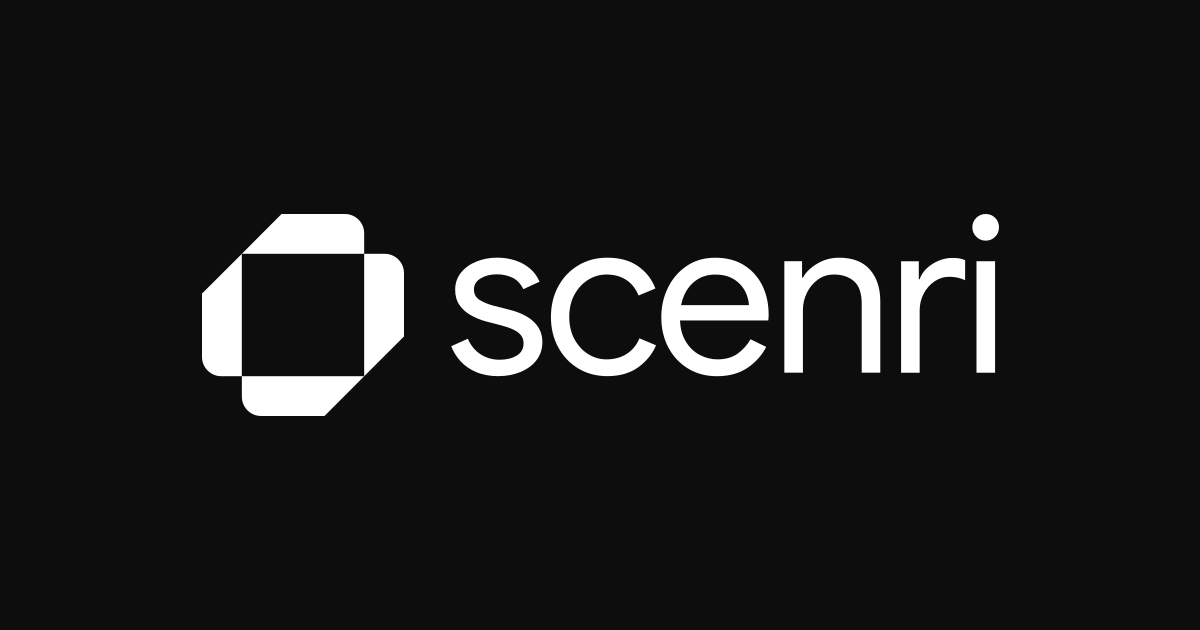
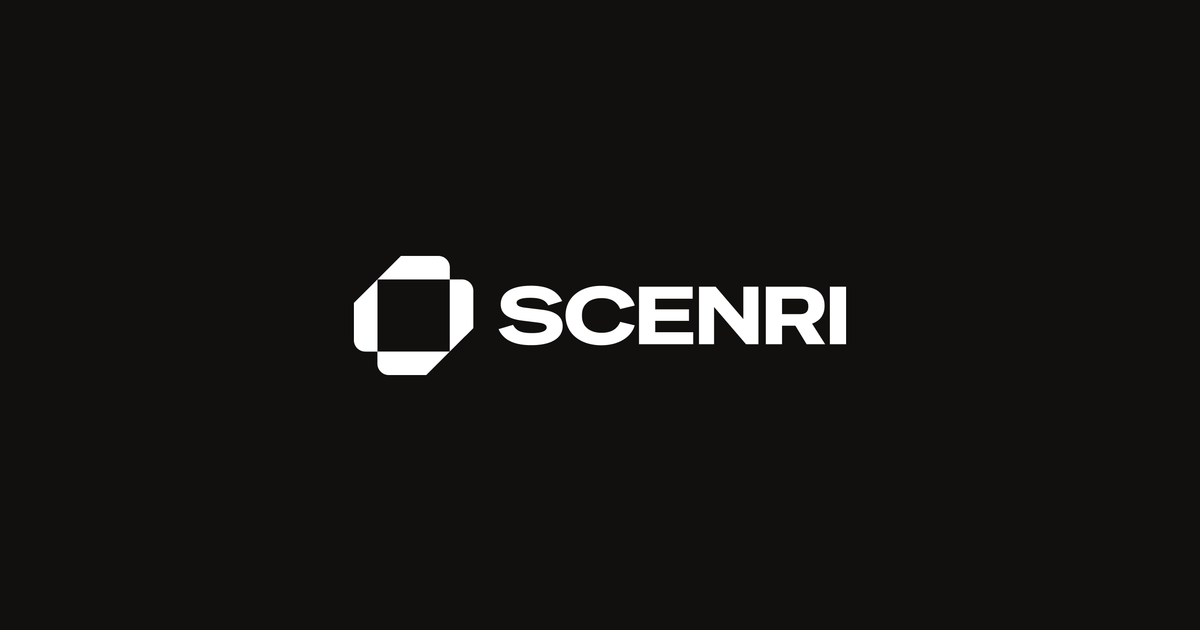
fix: the mark that shipped was the wrong cut; carry the real one

Changed region(s): [[0.1542, 0.3317, 0.8325, 0.6635]]

diff --git a/apps/studio/src/layout/ScenriMark.tsx b/apps/studio/src/layout/ScenriMark.tsx
@@ -17,24 +17,23 @@ import type { SVGProps } from 'react';
  */
 
 const SYMBOL = [
-  'M64.88 18.97V39.33L52.09 52.09V12.79H58.7C62.11 12.79 64.88 15.56 64.88 18.97Z',
-  'M12.79 12.79V52.1H6.18C2.77 52.1 0 49.33 0 45.92V25.56L12.79 12.8V12.79Z',
-  'M52.1 52.09L39.34 64.88H18.98C15.57 64.88 12.8 62.11 12.8 58.7V52.09H52.11H52.1Z',
-  'M12.79 12.79L25.55 0H45.91C49.32 0 52.09 2.77 52.09 6.18V12.79H12.79Z',
+  'M64 18.71V38.8L51.38 51.39V12.62H57.9C61.27 12.62 64 15.35 64 18.72V18.71Z',
+  'M12.62 12.62V51.39H6.1C2.73 51.39 0 48.66 0 45.29V25.2L12.62 12.61V12.62Z',
+  'M51.38 51.38L38.79 64H18.7C15.33 64 12.6 61.27 12.6 57.9V51.38H51.37H51.38Z',
+  'M12.62 12.62L25.2 0H45.29C48.66 0 51.39 2.73 51.39 6.1V12.62H12.62Z',
 ];
 
 const WORDMARK = [
-  'M98.73 30.75L93.53 29.42C91.8 28.95 90.34 28.34 89.14 27.59C87.95 26.84 87.35 25.72 87.35 24.22C87.35 22.72 88.07 21.54 89.53 20.67C90.98 19.8 92.69 19.37 94.66 19.37C96.49 19.37 98.15 19.72 99.64 20.42C101.14 21.12 102.33 22.36 103.22 24.14L108.42 21.75C107.72 20.07 106.69 18.65 105.33 17.5C103.97 16.35 102.39 15.49 100.59 14.9C98.79 14.32 96.86 14.02 94.8 14.02C92.46 14.02 90.26 14.43 88.2 15.25C86.14 16.07 84.48 17.25 83.22 18.8C81.96 20.35 81.32 22.19 81.32 24.35C81.32 26.27 81.78 27.9 82.69 29.23C83.6 30.56 84.81 31.65 86.31 32.5C87.81 33.34 89.4 34 91.08 34.47L95.43 35.59C97.12 36.01 98.54 36.48 99.71 36.99C100.88 37.51 101.77 38.13 102.38 38.85C102.99 39.58 103.29 40.48 103.29 41.55C103.29 43.28 102.55 44.59 101.08 45.48C99.61 46.37 97.77 46.81 95.57 46.81C93.37 46.81 91.24 46.22 89.46 45.05C87.68 43.88 86.32 42.22 85.39 40.07L80.05 42.46C80.7 44.19 81.7 45.8 83.03 47.27C84.36 48.74 86.05 49.92 88.08 50.78C90.12 51.65 92.47 52.08 95.14 52.08C97.81 52.08 100.15 51.63 102.3 50.75C104.45 49.86 106.16 48.6 107.43 46.96C108.69 45.32 109.33 43.38 109.33 41.13C109.33 38.6 108.44 36.46 106.66 34.71C104.88 32.96 102.24 31.63 98.73 30.74V30.75Z',
-  'M136.43 44.93C134.6 46.1 132.43 46.69 129.9 46.69C127.79 46.69 125.84 46.13 124.04 45C122.24 43.88 120.78 42.29 119.65 40.23C118.53 38.17 117.96 35.78 117.96 33.07C117.96 30.36 118.52 27.91 119.65 25.87C120.77 23.83 122.24 22.25 124.04 21.13C125.84 20.01 127.8 19.44 129.9 19.44C132.38 19.44 134.5 20.01 136.25 21.16C138.01 22.31 139.33 23.98 140.22 26.18L145.63 23.93C144.55 21.03 142.72 18.65 140.12 16.8C137.52 14.95 134.21 14.03 130.19 14.03C126.68 14.03 123.56 14.86 120.82 16.52C118.08 18.18 115.94 20.44 114.4 23.3C112.86 26.16 112.08 29.41 112.08 33.06C112.08 36.71 112.85 39.91 114.4 42.78C115.95 45.65 118.09 47.93 120.82 49.59C123.56 51.25 126.68 52.08 130.19 52.08C134.21 52.08 137.54 51.12 140.16 49.2C142.78 47.28 144.68 44.94 145.85 42.18L140.51 39.93C139.62 42.08 138.26 43.75 136.44 44.91L136.43 44.93Z',
-  'M174.03 16.39C171.48 14.82 168.43 14.04 164.87 14.04C161.31 14.04 158.3 14.92 155.71 16.67C153.11 18.42 151.1 20.75 149.67 23.66C148.24 26.56 147.53 29.72 147.53 33.14C147.53 36.79 148.29 40.04 149.81 42.9C151.33 45.76 153.44 48 156.13 49.64C158.82 51.28 161.9 52.1 165.36 52.1C169.29 52.1 172.57 51.21 175.19 49.43C177.81 47.65 179.83 45.41 181.23 42.69L176.18 40.23C175.15 42.06 173.78 43.59 172.07 44.83C170.36 46.07 168.2 46.69 165.58 46.69C163.57 46.69 161.64 46.2 159.79 45.22C157.94 44.24 156.43 42.74 155.26 40.73C154.23 38.95 153.65 36.78 153.53 34.2H181.87C181.92 33.97 181.95 33.69 181.98 33.36C182 33.03 182.01 32.71 182.01 32.38C182.01 28.82 181.32 25.66 179.94 22.9C178.56 20.14 176.59 17.97 174.04 16.41L174.03 16.39ZM153.87 29.28C154.1 28.16 154.42 27.11 154.86 26.12C155.77 24.06 157.08 22.43 158.79 21.24C160.5 20.05 162.52 19.45 164.86 19.45C166.82 19.45 168.48 19.77 169.81 20.4C171.14 21.03 172.24 21.85 173.11 22.86C173.98 23.87 174.61 24.94 175.01 26.09C175.41 27.24 175.63 28.3 175.68 29.28H153.87Z',
-  'M204.61 14.04C202.08 14.04 199.75 14.67 197.62 15.94C195.49 17.2 193.96 18.7 193.02 20.43H192.74V15.16H187.05V50.97H193.02V30.82C193.02 28.9 193.44 27.08 194.28 25.34C195.12 23.61 196.29 22.19 197.79 21.09C199.29 19.99 201.02 19.44 202.99 19.44C205.61 19.44 207.75 20.15 209.41 21.58C211.07 23.01 211.9 25.45 211.9 28.92V50.97H217.87V28.01C217.87 23.8 216.76 20.42 214.53 17.86C212.31 15.31 208.99 14.03 204.6 14.03L204.61 14.04Z',
-  'M240.91 14.11C239.51 14.11 238.09 14.4 236.66 14.99C235.23 15.58 233.97 16.37 232.87 17.38C231.77 18.39 230.99 19.57 230.52 20.93H230.24V15.17H224.55V50.98H230.52V30.97C230.52 29 230.95 27.2 231.82 25.56C232.69 23.92 233.84 22.61 235.3 21.63C236.75 20.65 238.34 20.16 240.07 20.16C240.96 20.16 241.84 20.25 242.7 20.44C243.57 20.63 244.37 20.91 245.12 21.28V14.82C244.6 14.59 244.04 14.41 243.44 14.29C242.83 14.17 241.99 14.11 240.91 14.11Z',
-  'M254.77 1.23C253.95 0.41 252.93 0 251.72 0C250.51 0 249.54 0.41 248.7 1.23C247.86 2.05 247.44 3.07 247.44 4.28C247.44 5.49 247.86 6.46 248.7 7.3C249.54 8.14 250.55 8.56 251.72 8.56C252.89 8.56 253.96 8.14 254.77 7.3C255.59 6.46 256 5.45 256 4.28C256 3.11 255.59 2.04 254.77 1.23Z',
-  'M254.74 15.17H248.77V50.98H254.74V15.17Z',
+  'M100.99 28.93L91.76 27.8C88.5 27.41 87.19 26.58 87.19 25.1C87.19 23.45 89.98 22.49 94.29 22.49C99.38 22.49 102.43 23.36 104.17 26.58L111.61 24.27C108.65 17.87 102.08 16 94.98 16C85.1 16 78.7 19.31 78.7 25.97C78.7 31.02 82.49 33.81 90.28 34.76L98.68 35.8C102.29 36.24 103.3 37.19 103.3 38.5C103.3 40.24 100.64 41.46 95.59 41.46C89.41 41.46 87.01 40.2 85.31 37.02L77.52 39.33C80.31 45.77 86.92 47.95 95.07 47.95C105.17 47.95 111.88 44.55 111.88 37.72C111.88 32.84 108.53 29.84 101 28.93H100.99Z',
+  'M132.73 22.66C137 22.66 140.87 24.01 142.7 28.54L150.49 26.67C148.79 20.66 142.3 16.05 132.6 16.05C121.41 16.05 113.44 22.23 113.44 31.98C113.44 41.73 121.41 48 132.6 48C142.31 48 148.8 43.3 150.49 37.29L142.7 35.42C140.87 39.95 137 41.3 132.73 41.3C126.94 41.3 122.24 38.38 122.24 32.42V31.55C122.24 25.59 126.94 22.67 132.73 22.67V22.66Z',
+  'M161.51 34.89H179.58V28.71H161.51V22.97H181.54V16.52H152.8V47.43H181.84V40.99H161.51V34.89Z',
+  'M208.71 33.85H208.67L193.86 16.52H184.94V47.43H193.04V27.49H193.08L210.15 47.43H216.81V16.52H208.71V33.85Z',
+  'M252.25 26.8C252.25 20.14 248.07 16.52 239.84 16.52H220.77V47.43H229.48V37.5H236.62L242.63 47.43H252.56L245.55 36.37C249.9 34.8 252.25 31.62 252.25 26.79V26.8ZM243.54 27.32C243.54 29.98 242.06 31.28 239.06 31.28H229.48V22.96H239.06C242.06 22.96 243.54 24.27 243.54 26.88V27.32Z',
+  'M263.79 16.52H255.08V47.43H263.79V16.52Z',
 ];
 
 /**
- * Symbol plus wordmark, 3.947:1. Twenty pixels tall renders seventy-nine wide,
+ * Symbol plus wordmark, 4.122:1. Twenty pixels tall renders eighty-two wide,
  * which the bar has room for at every width down to 320.
  *
  * The symbol alone has no component: nothing in the app draws it on its own,
@@ -43,7 +42,7 @@ const WORDMARK = [
  */
 export function ScenriLockup(props: SVGProps<SVGSVGElement>) {
   return (
-    <svg viewBox="0 0 256 64.88" fill="currentColor" aria-hidden="true" focusable="false" {...props}>
+    <svg viewBox="0 0 263.79 64" fill="currentColor" aria-hidden="true" focusable="false" {...props}>
       {[...SYMBOL, ...WORDMARK].map((d) => (
         <path key={d} d={d} />
       ))}

diff --git a/apps/studio/test/scenriMark.test.ts b/apps/studio/test/scenriMark.test.ts
@@ -30,7 +30,7 @@ describe('ScenriMark', () => {
 
   it('draws the lockup as the symbol followed by the wordmark', () => {
     expect(lockup.slice(0, 4)).toEqual(symbol);
-    expect(lockup).toHaveLength(11);
+    expect(lockup).toHaveLength(10);
   });
 
   it('keeps both files on currentColor, so the theme picks the ink', () => {
